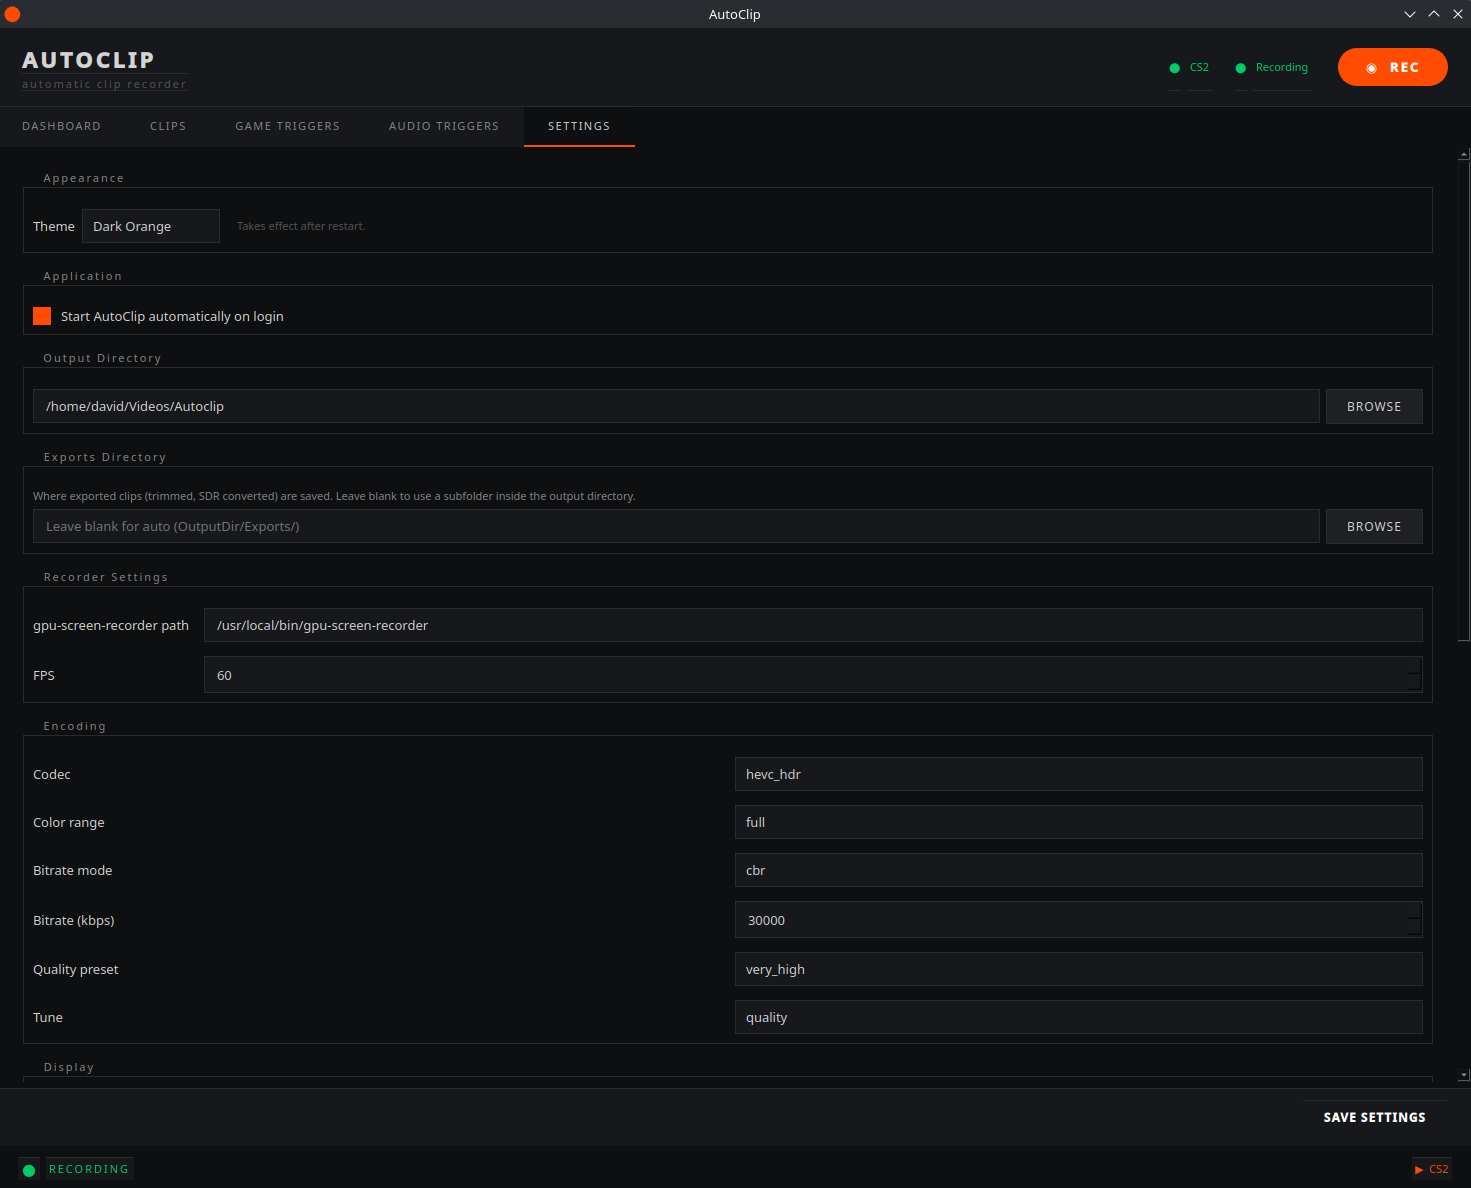
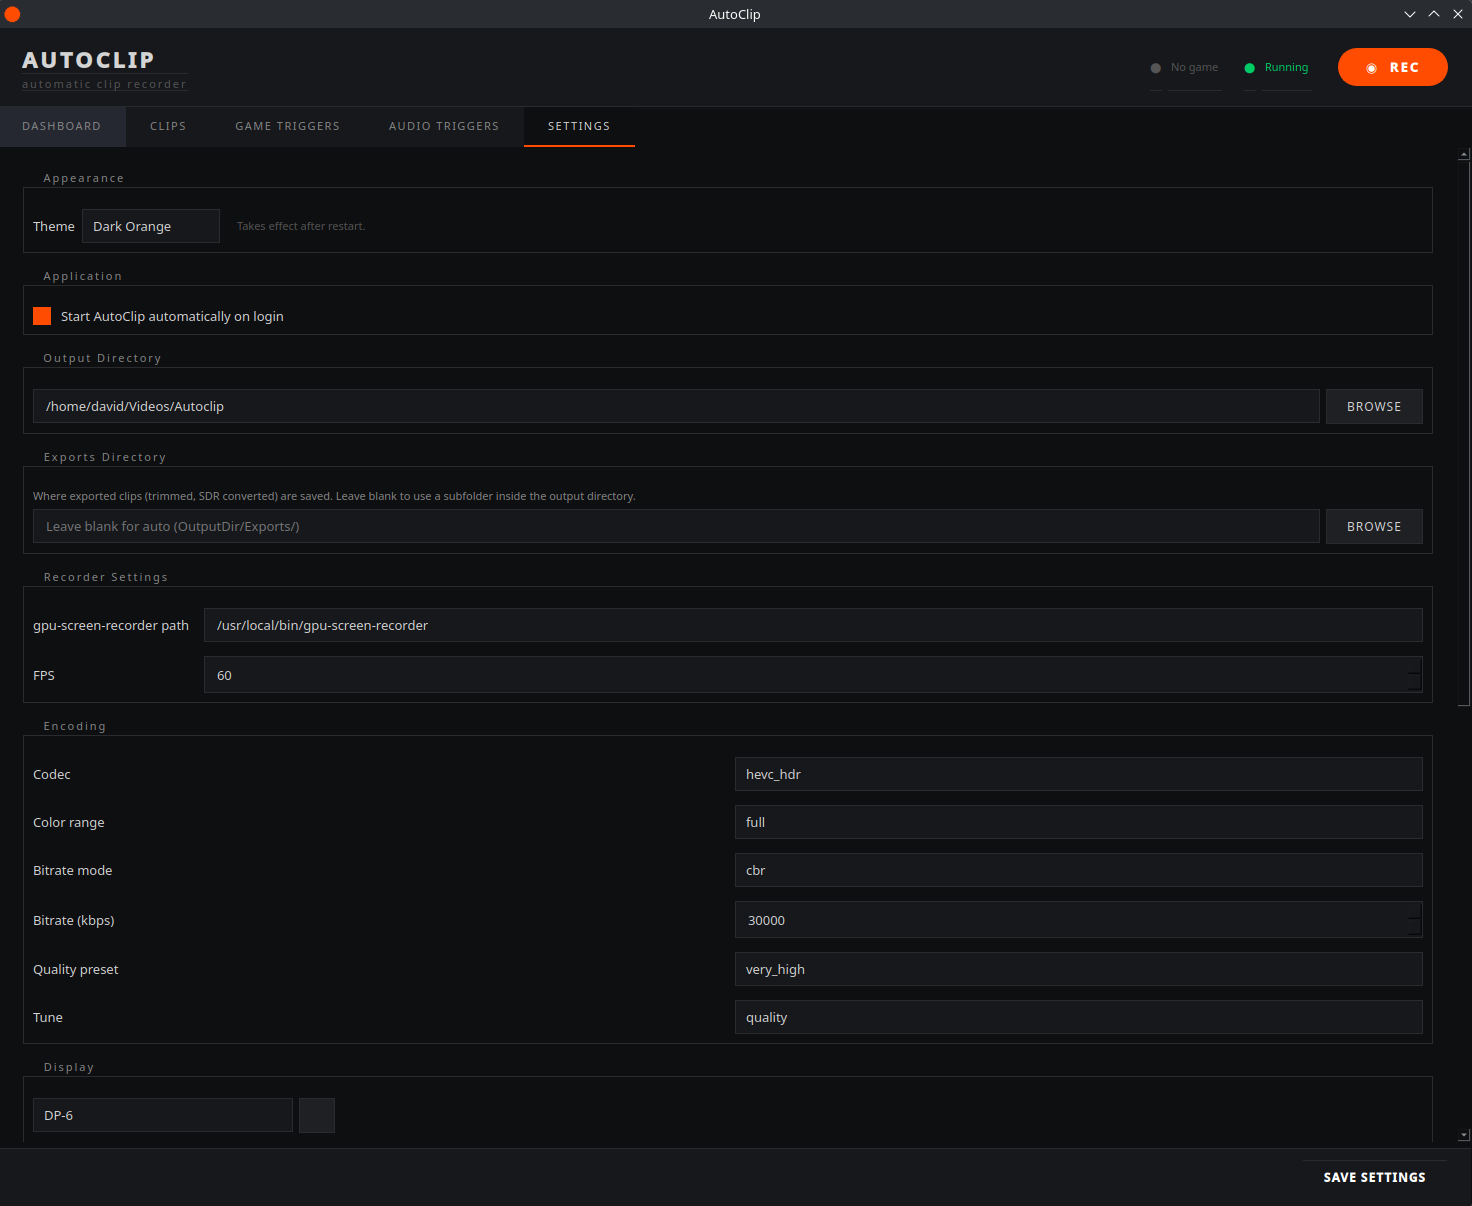
UI and bug fixes: game trigger enable switches, GSI/audio status persistence, resolve audio threading
- Game trigger section headers now show Enabled switch (same as audio triggers);
  removed redundant "Enable CS2 monitoring" checkbox from section body
- GSI config status now reflects actual install state on startup instead of
  always showing "not checked"
- Resolve Audio status now persists across restarts by reading saved device from config
- Fixed Resolve Audio never completing: replaced QTimer.singleShot cross-thread
  hack with a proper QObject signal so the result always posts to the main thread
- Single scroll bar for Game Triggers and Audio Triggers tabs (tab-level QScrollArea)
- Updated screenshots (Settings, Game Triggers, Audio Triggers)

diff --git a/autoclip/games/cs2.py b/autoclip/games/cs2.py
@@ -617,27 +617,25 @@ class CS2Tab:
         """Return a QWidget without importing Qt at module level."""
         from PyQt6.QtWidgets import (
             QWidget, QVBoxLayout, QGridLayout, QGroupBox,
-            QCheckBox, QLabel, QPushButton, QHBoxLayout, QScrollArea,
+            QCheckBox, QLabel, QPushButton, QHBoxLayout,
             QSpinBox, QAbstractSpinBox, QSizePolicy,
         )
-        from PyQt6.QtCore import Qt, QTimer
+        from PyQt6.QtCore import Qt, QTimer, QObject, pyqtSignal
         import threading
+
+        class _Sig(QObject):
+            result = pyqtSignal(object)
 
         w = QWidget(parent)
         w.config = config
-        outer = QVBoxLayout(w)
-        outer.setContentsMargins(0, 0, 0, 0)
-
-        inner = QWidget()
-        layout = QVBoxLayout(inner)
+        layout = QVBoxLayout(w)
         layout.setContentsMargins(24, 24, 24, 24)
         layout.setSpacing(16)
 
         cs2 = config.cs2
 
-        w._enabled_cb = QCheckBox("Enable CS2 monitoring")
+        w._enabled_cb = QCheckBox("Enable CS2 monitoring", w)
         w._enabled_cb.setChecked(getattr(cs2, "enabled", True))
-        layout.addWidget(w._enabled_cb)
 
         # ── GSI Setup ────────────────────────────────────────────────
         gsi = QGroupBox("GSI Setup")
@@ -650,16 +648,44 @@ class CS2Tab:
         info.setWordWrap(True)
         info.setStyleSheet("color: #777; font-size: 12px;")
         gl.addWidget(info)
-        w.gsi_status = QLabel("Status: not checked")
+        w.gsi_status = QLabel("")
         w.gsi_status.setStyleSheet("color: #888; font-size: 12px;")
         gl.addWidget(w.gsi_status)
+        import os as _os
+        _gsi_file = None
+        for _p in [
+            _os.path.expanduser(
+                "~/.steam/steam/steamapps/common/"
+                "Counter-Strike Global Offensive/game/core/cfg/"
+                "gamestate_integration_autoclip.cfg"),
+            _os.path.expanduser(
+                "~/.local/share/Steam/steamapps/common/"
+                "Counter-Strike Global Offensive/game/core/cfg/"
+                "gamestate_integration_autoclip.cfg"),
+        ]:
+            if _os.path.isfile(_p):
+                _gsi_file = _p
+                break
+        if _gsi_file:
+            w.gsi_status.setText(f"✓ Installed to {_gsi_file}")
+            w.gsi_status.setStyleSheet("color: #00cc66; font-size: 12px;")
+        else:
+            w.gsi_status.setText("✗ Not installed")
+            w.gsi_status.setStyleSheet("color: #cc3300; font-size: 12px;")
         w.install_btn = QPushButton("INSTALL GSI CONFIG")
         w.install_btn.setObjectName("primary")
         gl.addWidget(w.install_btn)
 
         audio_row = QHBoxLayout()
-        w.audio_status = QLabel("Game audio: not resolved")
-        w.audio_status.setStyleSheet("color: #888; font-size: 11px;")
+        _saved_device = next(
+            (t.get("device", "") for t in (config.audio_tracks or [])
+             if isinstance(t, dict) and t.get("track_type") == "game"),
+            ""
+        )
+        w.audio_status = QLabel(f"✓ {_saved_device}" if _saved_device else "Game audio: not resolved")
+        w.audio_status.setStyleSheet(
+            "color: #00cc66; font-size: 11px;" if _saved_device else "color: #888; font-size: 11px;"
+        )
         resolve_btn = QPushButton("RESOLVE AUDIO")
         resolve_btn.setStyleSheet(
             "background:#1e2024;color:#d4d4d4;border:1px solid #2e3035;padding:5px 12px;")
@@ -670,24 +696,35 @@ class CS2Tab:
         def _resolve_audio():
             w.audio_status.setText("Resolving…")
             resolve_btn.setEnabled(False)
+            sig = _Sig(w)  # parent=w → main-thread affinity → emit cross-thread is queued
+
+            def _on_result(device):
+                resolve_btn.setEnabled(True)
+                if device:
+                    tracks = config.audio_tracks or []
+                    for track in tracks:
+                        if isinstance(track, dict) and track.get("track_type") == "game":
+                            track["device"] = device
+                            break
+                    config.save()
+                    w.audio_status.setText(f"✓ {device}")
+                    w.audio_status.setStyleSheet("color: #00cc66; font-size: 11px;")
+                else:
+                    w.audio_status.setText("✗ Not found — is CS2 running?")
+                    w.audio_status.setStyleSheet("color: #cc3300; font-size: 11px;")
+
+            sig.result.connect(_on_result)
+
             def _run():
-                from autoclip.core.audio import resolve_game_audio_node
-                device = resolve_game_audio_node("cs2", config.gpu_recorder_path)
-                def _done():
-                    resolve_btn.setEnabled(True)
-                    if device:
-                        tracks = config.audio_tracks or []
-                        for track in tracks:
-                            if isinstance(track, dict) and track.get("track_type") == "game":
-                                track["device"] = device
-                                break
-                        config.save()
-                        w.audio_status.setText(f"✓ {device}")
-                        w.audio_status.setStyleSheet("color: #00cc66; font-size: 11px;")
-                    else:
-                        w.audio_status.setText("✗ Not found — is CS2 running?")
-                        w.audio_status.setStyleSheet("color: #cc3300; font-size: 11px;")
-                QTimer.singleShot(0, _done)
+                import logging as _log
+                device = None
+                try:
+                    from autoclip.core.audio import resolve_game_audio_node
+                    device = resolve_game_audio_node("cs2", config.gpu_recorder_path)
+                except Exception:
+                    _log.getLogger(__name__).exception("resolve_game_audio_node failed")
+                sig.result.emit(device)
+
             threading.Thread(target=_run, daemon=True).start()
 
         resolve_btn.clicked.connect(_resolve_audio)
@@ -816,10 +853,4 @@ class CS2Tab:
         multikill_spin.valueChanged.connect(_save)
         lowhealth_spin.valueChanged.connect(_save)
 
-        scroll = QScrollArea()
-        scroll.setWidget(inner)
-        scroll.setWidgetResizable(True)
-        scroll.setFrameShape(scroll.Shape.NoFrame)
-        scroll.setStyleSheet("QScrollArea{border:none;background:transparent;}")
-        outer.addWidget(scroll)
         return w

diff --git a/autoclip/gui/main_window.py b/autoclip/gui/main_window.py
@@ -208,7 +208,19 @@ class AutoRecordTab(QWidget):
         self.game_widgets: dict = {}
         self._sections: list = []
 
-        self._layout = QVBoxLayout(self)
+        from PyQt6.QtWidgets import QScrollArea as _QSA
+        outer = QVBoxLayout(self)
+        outer.setContentsMargins(0, 0, 0, 0)
+        outer.setSpacing(0)
+
+        scroll = _QSA()
+        scroll.setWidgetResizable(True)
+        scroll.setFrameShape(_QSA.Shape.NoFrame)
+        outer.addWidget(scroll)
+
+        content = QWidget()
+        scroll.setWidget(content)
+        self._layout = QVBoxLayout(content)
         self._layout.setContentsMargins(0, 0, 0, 0)
         self._layout.setSpacing(0)
 
@@ -262,21 +274,16 @@ class AutoRecordTab(QWidget):
                         expanded=(i == 0),
                         header_widget=enable_cb
                     )
-                    section.toggled.connect(self._on_section_toggled)
-                    self._layout.addWidget(section, 0)
+                    self._layout.addWidget(section)
                     self._sections.append(section)
 
-            # Trailing spacer absorbs unused space when all sections are collapsed
-            self._layout.addStretch(0)
-            self._update_stretches()
+            self._layout.addStretch(1)
 
     def _on_section_toggled(self, _expanded: bool):
-        self._update_stretches()
+        pass
 
     def _update_stretches(self):
-        for s in self._sections:
-            self._layout.setStretch(self._layout.indexOf(s), 0)
-        self._layout.setStretch(self._layout.count() - 1, 1)
+        pass
 
 
 class RecordingTab(QWidget):
@@ -786,7 +793,19 @@ class AudioTriggersTab(QWidget):
         self._plugin_widgets = {}   # plugin_name → widget
         self._sections: list = []
 
-        self._layout = QVBoxLayout(self)
+        from PyQt6.QtWidgets import QScrollArea as _QSA
+        outer = QVBoxLayout(self)
+        outer.setContentsMargins(0, 0, 0, 0)
+        outer.setSpacing(0)
+
+        scroll = _QSA()
+        scroll.setWidgetResizable(True)
+        scroll.setFrameShape(_QSA.Shape.NoFrame)
+        outer.addWidget(scroll)
+
+        content_w = QWidget()
+        scroll.setWidget(content_w)
+        self._layout = QVBoxLayout(content_w)
         self._layout.setContentsMargins(0, 0, 0, 0)
         self._layout.setSpacing(0)
         t = _theme.current
@@ -818,7 +837,6 @@ class AudioTriggersTab(QWidget):
                 cl.setContentsMargins(16, 16, 16, 16)
                 cl.setSpacing(12)
                 cl.addWidget(widget)
-                cl.addStretch()
 
                 # Enable checkbox shown in the header even when collapsed
                 from PyQt6.QtWidgets import QCheckBox as _QCB
@@ -831,8 +849,7 @@ class AudioTriggersTab(QWidget):
 
                 section = CollapsibleSection(cls.NAME, content, expanded=False,
                                              header_widget=enable_cb)
-                section.toggled.connect(self._on_section_toggled)
-                self._layout.addWidget(section, 0)
+                self._layout.addWidget(section)
                 self._sections.append(section)
                 self._plugin_widgets[cls.NAME] = widget
 
@@ -843,14 +860,6 @@ class AudioTriggersTab(QWidget):
                     )
 
             self._layout.addStretch(1)
-
-    def _on_section_toggled(self, _expanded: bool):
-        self._update_stretches()
-
-    def _update_stretches(self):
-        for s in self._sections:
-            self._layout.setStretch(self._layout.indexOf(s), 0)
-        self._layout.setStretch(self._layout.count() - 1, 1)
 
     def _save_plugin(self, name: str):
         widget = self._plugin_widgets.get(name)

diff --git a/README.md b/README.md
@@ -34,6 +34,12 @@ Automatic game clip recorder for Linux. Monitors game events in real time and tr
 ![Clip timeline](Screenshot_3.png?raw=true)
 *Player with timeline scrubber, event markers, and per-track waveforms*
 
+![Game triggers](Screenshot_4.png)
+*Game Triggers — CS2 kill, round, and situational trigger configuration*
+
+![Audio triggers](Screenshot_5.png)
+*Audio Triggers — Reactions (laughter, screaming, shouting) and Voice phrase detection*
+
 ![Settings](Screenshot_1.png)
 *Settings — recorder, audio tracks, encoding, and clip timing*
 
